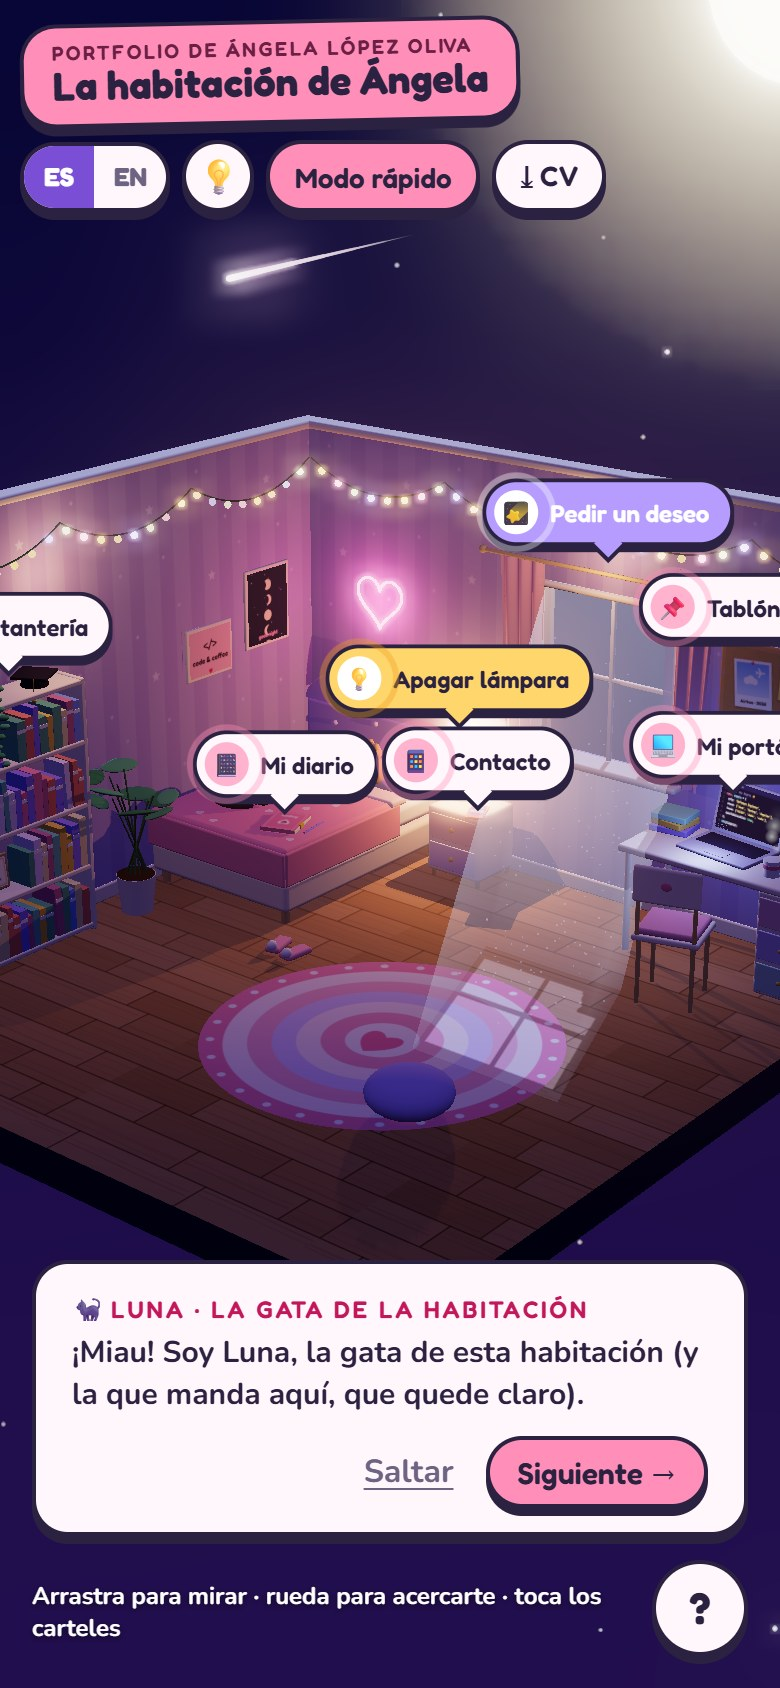
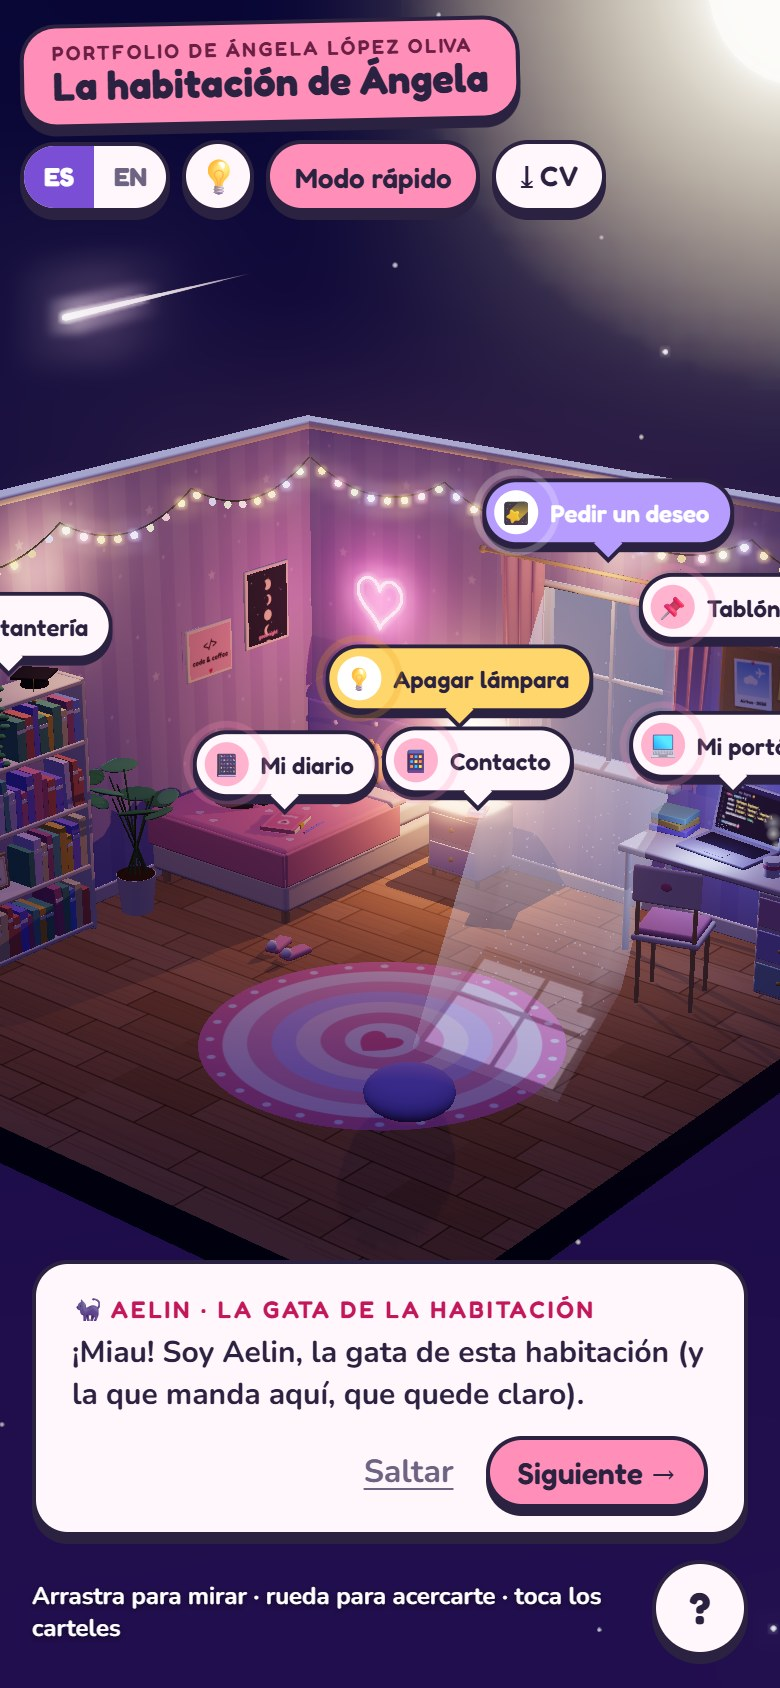
feat: rename the room cat to Aelin

diff --git a/content.js b/content.js
@@ -216,9 +216,9 @@ export const WISHES = {
 
 export const GUIDE = {
   es: {
-    speaker: 'Luna · la gata de la habitación',
+    speaker: 'Aelin · la gata de la habitación',
     intro: [
-      '¡Miau! Soy Luna, la gata de esta habitación (y la que manda aquí, que quede claro).',
+      '¡Miau! Soy Aelin, la gata de esta habitación (y la que manda aquí, que quede claro).',
       'Este es el cuarto de {first}: aquí programa, diseña y sueña de noche. Cada rincón guarda un trocito de su CV.',
       'En el diario está quién es, en el portátil su stack, en el tablón su experiencia, en la estantería su formación y en el móvil cómo contactarla.',
       'Las polaroids de encima de la puerta son sus proyectos, y si abres la puerta llegas a su GitHub.',
@@ -227,9 +227,9 @@ export const GUIDE = {
     allWishes: ['¡Has pedido todos los deseos! El último depende de ti: escríbele a {first} desde el móvil de la mesita 💌'],
   },
   en: {
-    speaker: 'Luna · the room cat',
+    speaker: 'Aelin · the room cat',
     intro: [
-      "Meow! I'm Luna, the cat of this room (and the one in charge, just so you know).",
+      "Meow! I'm Aelin, the cat of this room (and the one in charge, just so you know).",
       "This is {first}'s room: she codes, designs and dreams here at night. Every corner holds a piece of her CV.",
       'The diary tells you who she is, the laptop her stack, the corkboard her experience, the bookshelf her education and the phone how to reach her.',
       'The polaroids above the door are her projects, and opening the door takes you to her GitHub.',
@@ -291,7 +291,7 @@ export const UI = {
     languagesTitle: 'Idiomas',
     contactEyebrow: 'El móvil de la mesita',
     contactTitle: '¿Hablamos?',
-    contactText: 'Si tienes un proyecto, una oferta o simplemente quieres hablar de producto, código o diseño, escríbeme. Contesto rápido (después de dar de comer a Luna).',
+    contactText: 'Si tienes un proyecto, una oferta o simplemente quieres hablar de producto, código o diseño, escríbeme. Contesto rápido (después de dar de comer a Aelin).',
     experienceShort: 'Experiencia',
     email: 'Escríbeme',
     copyEmail: 'Copiar email',
@@ -355,7 +355,7 @@ export const UI = {
     languagesTitle: 'Languages',
     contactEyebrow: 'The phone on the nightstand',
     contactTitle: "Let's talk?",
-    contactText: "If you have a project, an offer or just want to chat about product, code or design, drop me a line. I reply fast (right after feeding Luna).",
+    contactText: "If you have a project, an offer or just want to chat about product, code or design, drop me a line. I reply fast (right after feeding Aelin).",
     experienceShort: 'Experience',
     email: 'Email me',
     copyEmail: 'Copy email',

diff --git a/README.md b/README.md
@@ -12,13 +12,13 @@ Portfolio interactivo en 3D: una habitación de noche, flotando en un cielo estr
 
 | 📔 Diario · Sobre mí | 💻 Portátil · Stack |
 | --- | --- |
-| ![Diario sobre la cama con la gata Luna](docs/screenshots/diario.jpg) | ![Portátil con el stack técnico](docs/screenshots/portatil.jpg) |
+| ![Diario sobre la cama con la gata Aelin](docs/screenshots/diario.jpg) | ![Portátil con el stack técnico](docs/screenshots/portatil.jpg) |
 | **📌 Tablón · Experiencia** | **📚 Estantería · Formación** |
 | ![Tablón de corcho con la experiencia profesional](docs/screenshots/tablon.jpg) | ![Estantería con la formación](docs/screenshots/estanteria.jpg) |
 | **🖼 Polaroids · Proyectos** | **🌠 Pedir un deseo (versión en inglés)** |
 | ![Polaroids de LudikaT y TripEAs colgadas de la guirnalda](docs/screenshots/proyectos.jpg) | ![Estrella fugaz cruzando la ventana](docs/screenshots/deseo.jpg) |
-| **⚡ Modo rápido, sin 3D** | **📱 Versión móvil, con Luna dando la bienvenida** |
-| ![Modo rápido con todo el CV en una página](docs/screenshots/modo-rapido.jpg) | <p align="center"><img src="docs/screenshots/movil.jpg" alt="Versión móvil con Luna como guía" width="220"></p> |
+| **⚡ Modo rápido, sin 3D** | **📱 Versión móvil, con Aelin dando la bienvenida** |
+| ![Modo rápido con todo el CV en una página](docs/screenshots/modo-rapido.jpg) | <p align="center"><img src="docs/screenshots/movil.jpg" alt="Versión móvil con Aelin como guía" width="220"></p> |
 
 ## Qué hay en la habitación
 
@@ -33,7 +33,7 @@ Portfolio interactivo en 3D: una habitación de noche, flotando en un cielo estr
 | 📱 Móvil de la mesita | Contacto, LinkedIn, GitHub y CV |
 | 💡 Lámpara de la mesita | Se enciende y se apaga |
 | 🌠 Ventana | Pide un deseo: cruza una estrella fugaz |
-| 🐈⬛ Luna, la gata | La guía: tócala y te explica la habitación |
+| 🐈⬛ Aelin, la gata | La guía: tócala y te explica la habitación |
 
 Además: luz de luna que entra por la ventana con polvo flotando, guirnaldas que titilan, corazón de neón, taza humeante, cursor parpadeando en el portátil, la hora real en el móvil, botón para encender la luz del cuarto y un **modo rápido** para leerlo todo sin 3D.
 
